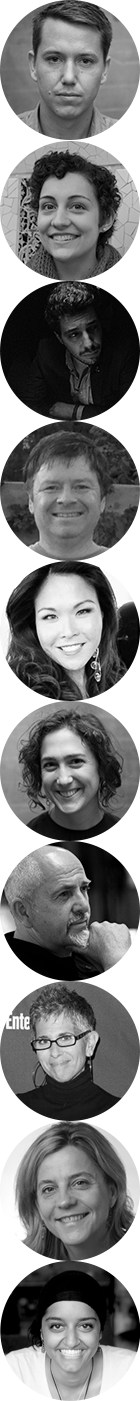
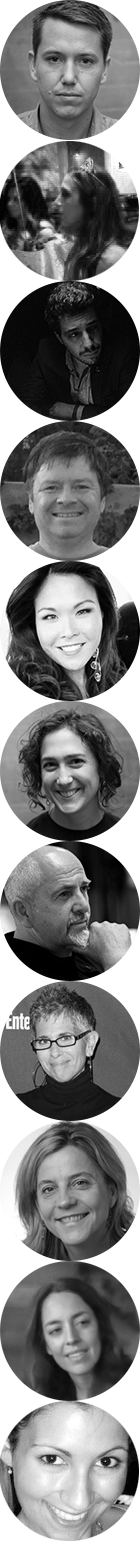
about changes

diff --git a/app/assets/stylesheets/about/index.css.scss b/app/assets/stylesheets/about/index.css.scss
@@ -30,7 +30,7 @@ html.about.index {
 		width: 140px; height: 140px; background: url("/assets/about/people.png"); margin: 0 auto;
 
 		&.alejandro-de-onis { background-position: 0 0; }
-		&.elise-shulman-reed { background-position: 0 -141px; }
+		&.vienna-maglio { background-position: 0 -141px; }
 		&.mark-belinsky { background-position: 0 -281px; }
 		&.mark-graham { background-position: 0 -421px; }
 		&.melissa-jun-rowley { background-position: 0 -561px; }
@@ -38,7 +38,8 @@ html.about.index {
 		&.peter-gabriel { background-position: 0 -841px; }
 		&.wendy-levy { background-position: 0 -981px; }
 		&.yvette-alberdingk-thijm { background-position: 0 -1121px; }
-		&.maleeha-ahmad { background-position: 0 -1261px; margin-top: 45px; }
+		&.marisse { background-position: 0 -1261px; }
+		&.robin { background-position: 0 -1401px; }
 	}
 
 	div.billboardish {
